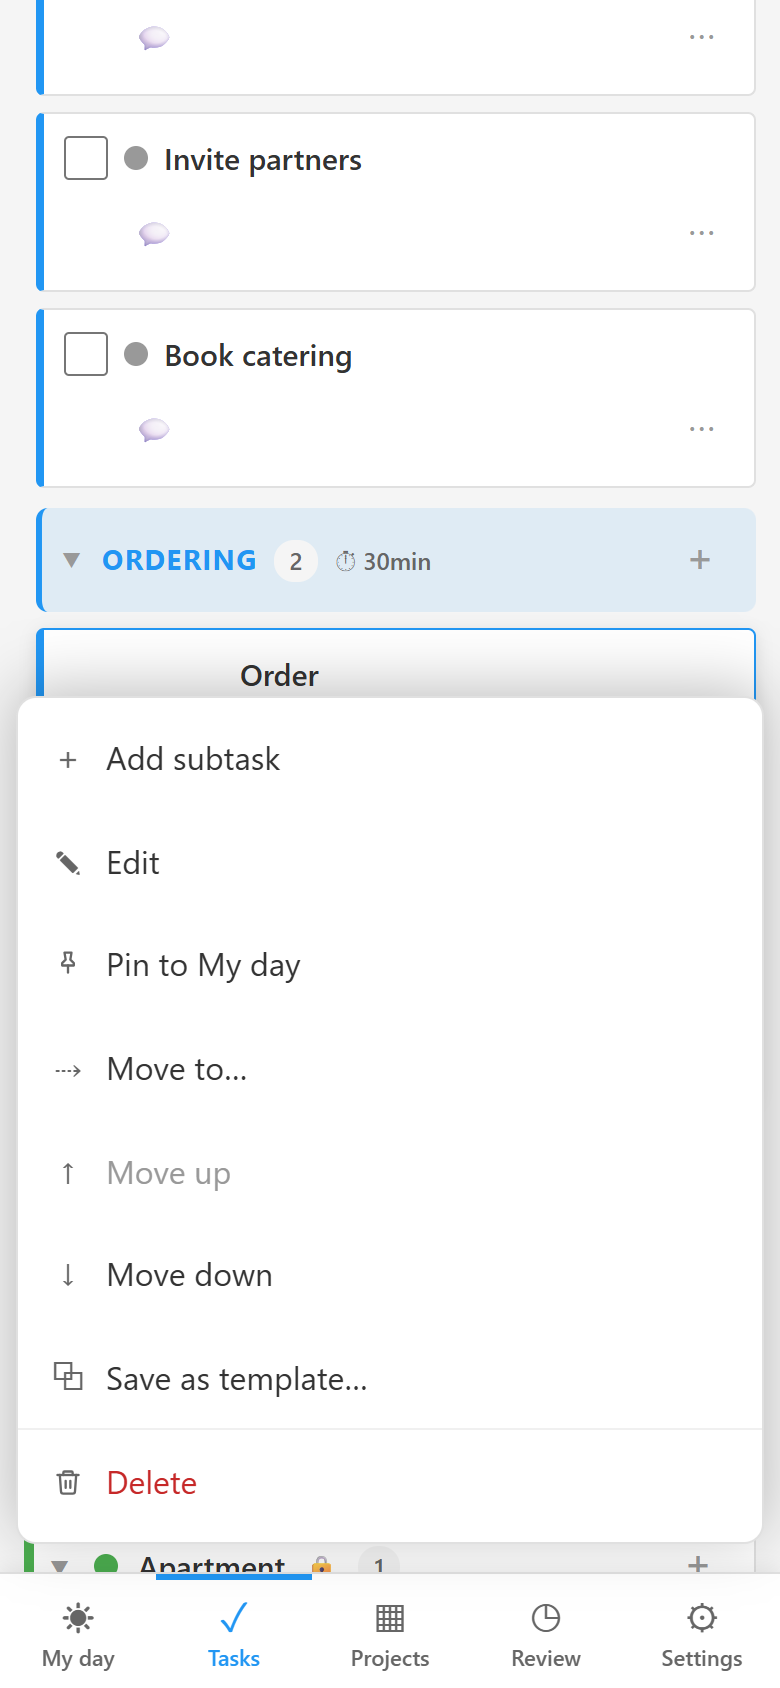
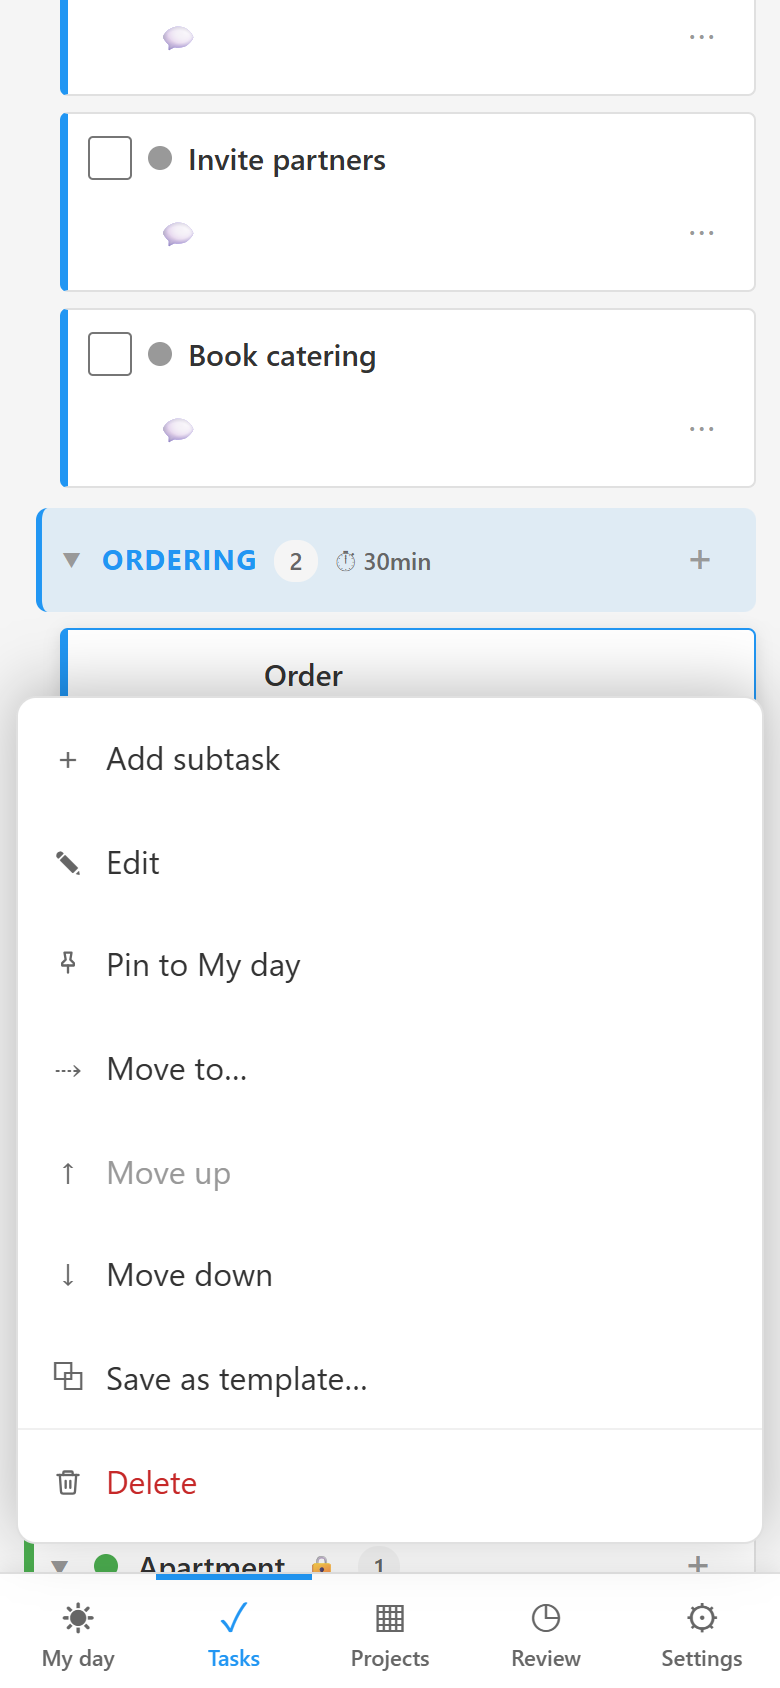
Indent tasks under their category (v1.42.2); Windows app v0.5.2

diff --git a/frontend/src/styles/Shared.css b/frontend/src/styles/Shared.css
@@ -77,6 +77,13 @@
   background-color: color-mix(in srgb, var(--project-color) 10%, transparent);
 }
 
+/* A category's tasks indented under its heading */
+.shared-section .category-name ~ .shared-tasks,
+.shared-section .category-name ~ .completed-group,
+.shared-section .category-name ~ .shared-section-desc {
+  margin-left: 22px;
+}
+
 .shared-section-desc {
   margin: 0 0 6px;
   font-size: 13px;
@@ -151,6 +158,12 @@
 @media (max-width: 600px) {
   .shared-badges {
     margin-left: 26px;
+  }
+
+  .shared-section .category-name ~ .shared-tasks,
+  .shared-section .category-name ~ .completed-group,
+  .shared-section .category-name ~ .shared-section-desc {
+    margin-left: 12px;
   }
 
   /* The task list hides it on phones (the checkbox shows done); here it's the only status. */

diff --git a/frontend/src/components/tasklist/TaskGroups.js b/frontend/src/components/tasklist/TaskGroups.js
@@ -127,14 +127,14 @@ function TaskGroups({
                         </button>
                       </div>
                       {!catCollapsed && (
-                        <>
+                        <div className="category-body">
                           {cat.tasks.length === 0 ? (
                             <p className="category-empty">{cat.completed.length ? t('All done ✓') : t('No tasks')}</p>
                           ) : (
                             cat.tasks.map(renderTask)
                           )}
                           {renderCompleted(`${cat.key}-done`, cat.completed)}
-                        </>
+                        </div>
                       )}
                     </div>
                     );

diff --git a/frontend/src/styles/TaskList.css b/frontend/src/styles/TaskList.css
@@ -264,6 +264,11 @@
   padding: 10px 0 0 14px;
 }
 
+/* A category's tasks sit indented under its header, like a project's under the project. */
+.category-body {
+  padding-left: 22px;
+}
+
 .category-group {
   margin-top: 6px;
   margin-bottom: 10px;
@@ -325,6 +330,10 @@
 @media (max-width: 600px) {
   .project-group-body {
     padding-left: 6px;
+  }
+
+  .category-body {
+    padding-left: 12px;
   }
 }
 

diff --git a/frontend/src/desktop/platform.js b/frontend/src/desktop/platform.js
@@ -3,7 +3,7 @@
 export const IS_DESKTOP = process.env.REACT_APP_TARGET === 'desktop';
 
 // Kept in step with desktop/src-tauri/tauri.conf.json (desktop.test.js checks it).
-export const DESKTOP_VERSION = '0.5.1';
+export const DESKTOP_VERSION = '0.5.2';
 
 // The server API the app needs (GET /api/v1/sync/ came with 1.31.0).
 export const MIN_SERVER_VERSION = '1.31.0';

diff --git a/CHANGELOG.md b/CHANGELOG.md
@@ -2,6 +2,11 @@
 
 All notable changes, newest first. Versions follow [semantic versioning](docs/development.md#versioning); each release is tagged `vX.Y.Z` on `main`.
 
+## v1.42.2 — 2026-09-29
+
+### Changed
+- **Tasks in a category are indented** under the category's header (like a project's own tasks under the project), so it's clear at a glance which category a task belongs to. Also on phones (a smaller step) and on the shared project page.
+
 ## v1.42.1 — 2026-09-28
 
 ### Changed

diff --git a/desktop/CHANGELOG.md b/desktop/CHANGELOG.md
@@ -3,6 +3,11 @@
 Versions of the Windows app (`desktop-v…` tags); the server has its own
 [CHANGELOG](../CHANGELOG.md).
 
+## v0.5.2 — 2026-09-29
+
+### Changed
+- **Tasks in a category are indented** under the category's header (server v1.42.2 interface).
+
 ## v0.5.1 — 2026-09-28
 
 ### Changed
